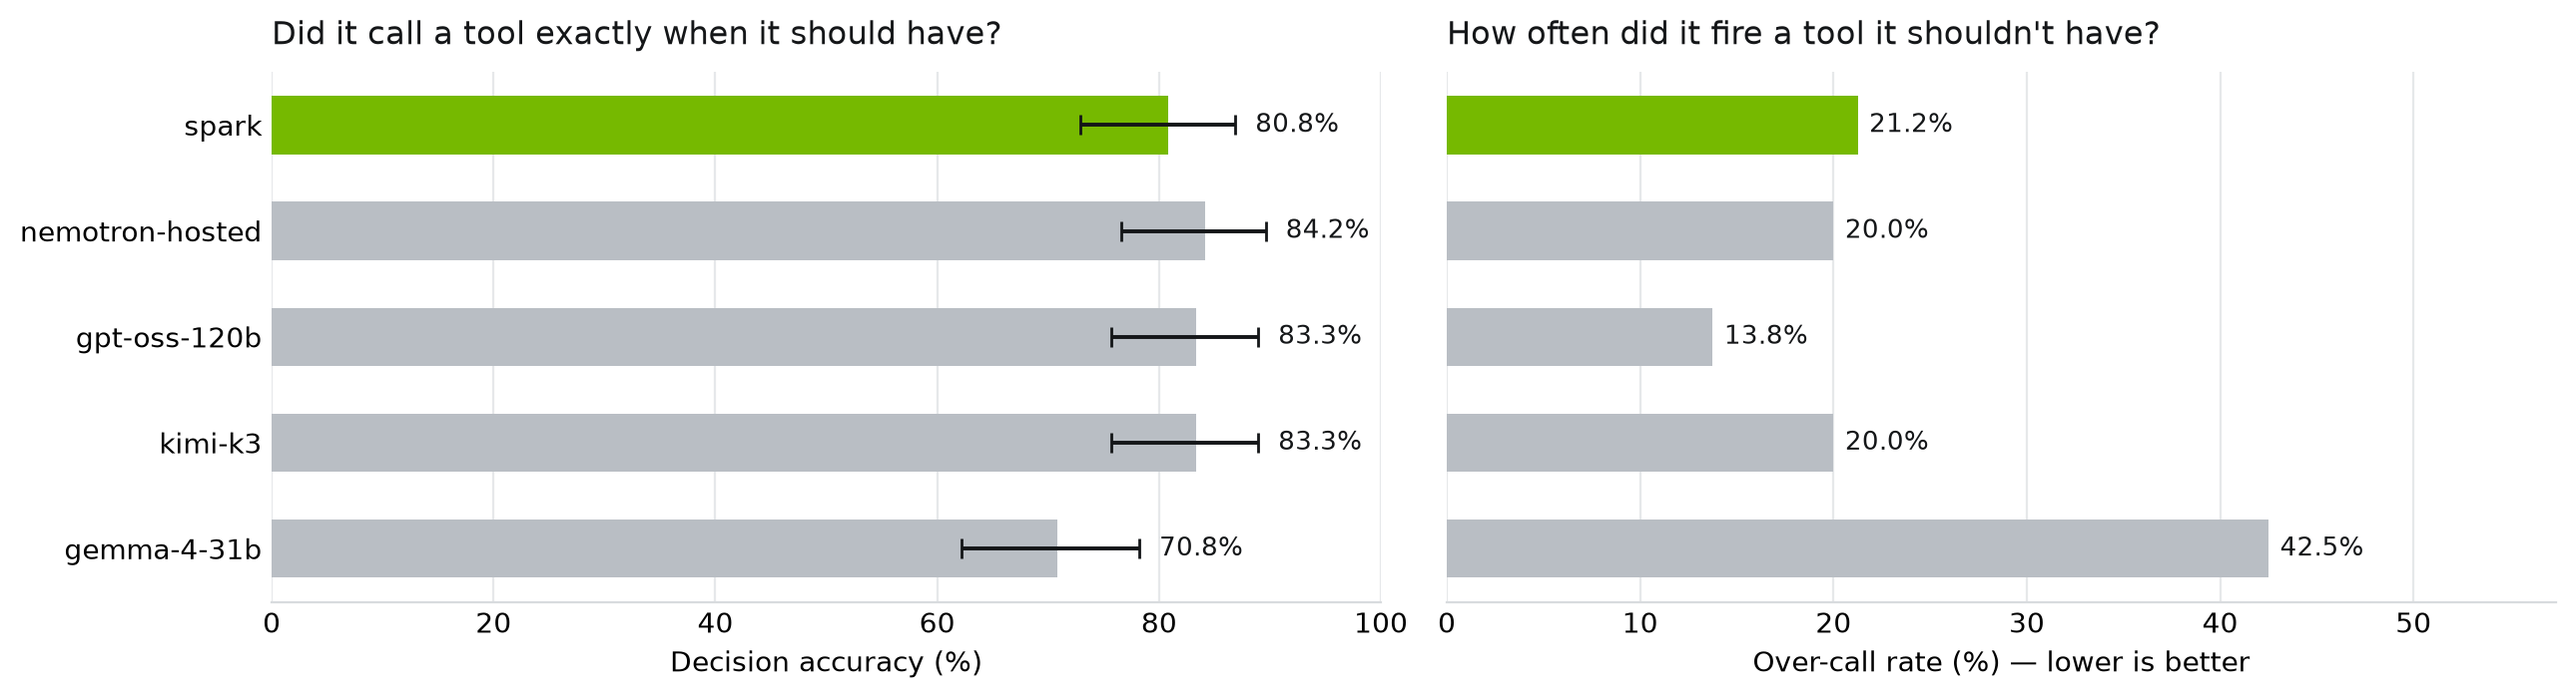
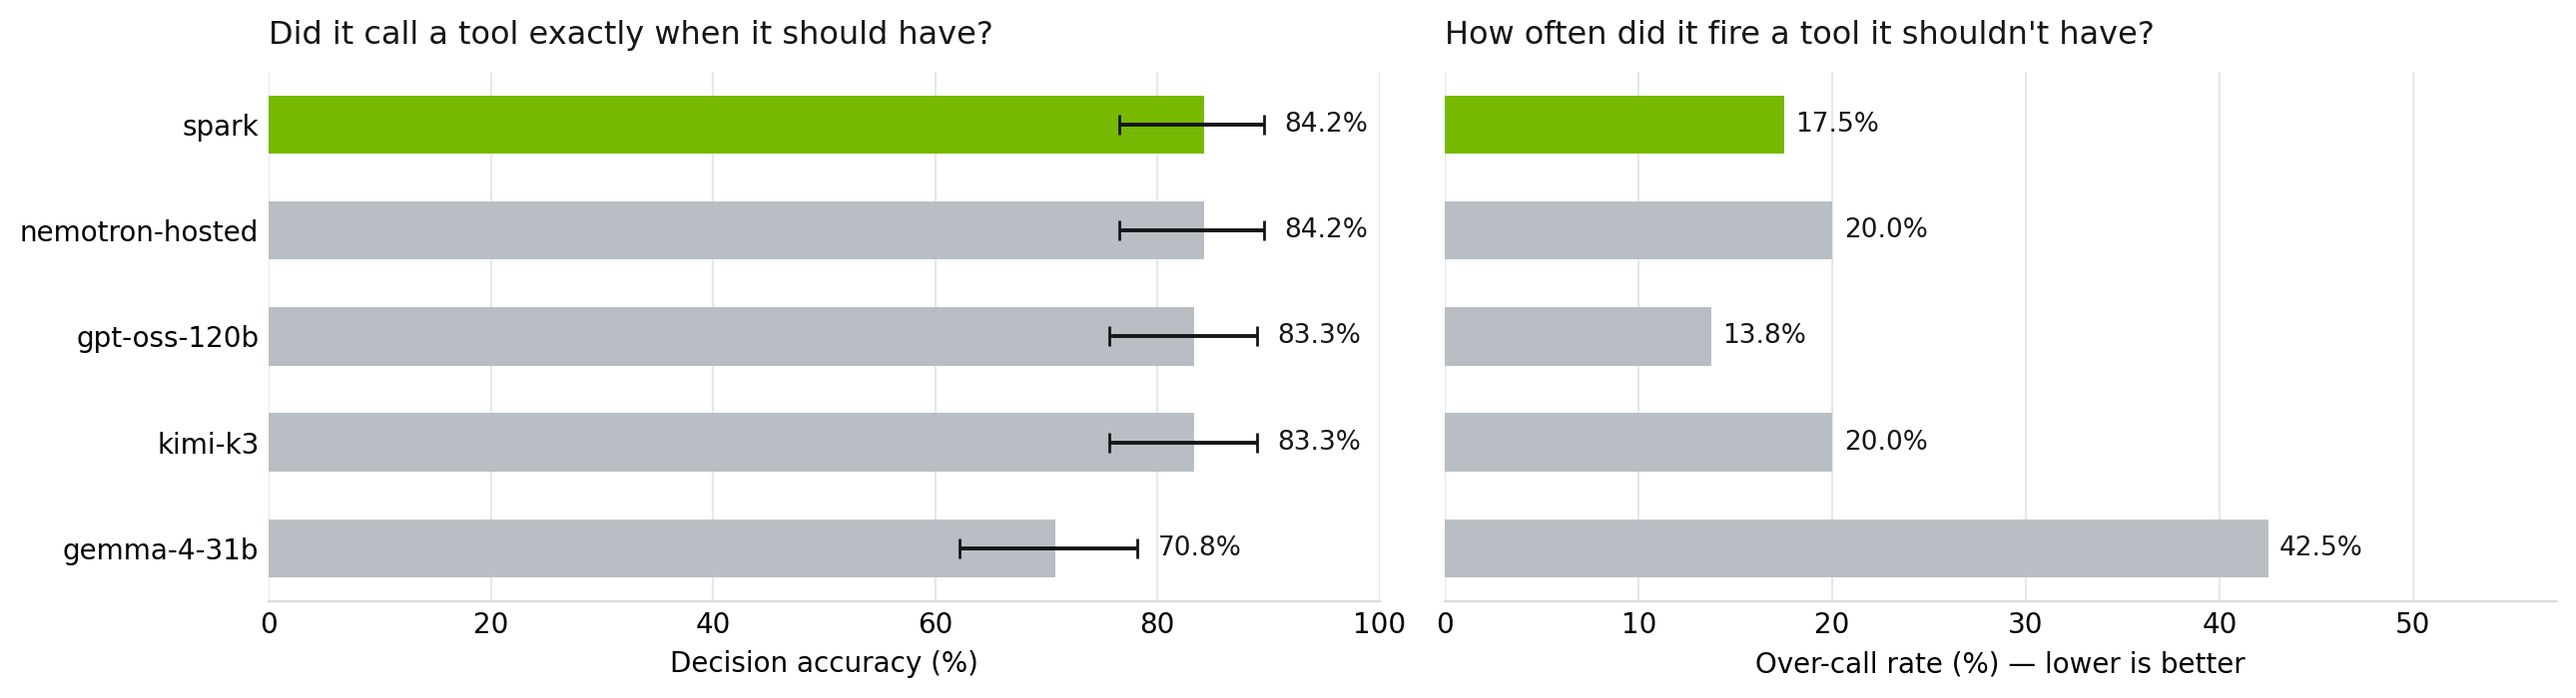
Re-run the local endpoint at the hosted token budget
The local Nemotron ran at max_tokens 3072 while the hosted control ran at
8192, and it was the only endpoint where actionable accuracy fell below
decision accuracy — three examples spent the budget on reasoning and the
tool call never arrived. Re-run at 8192: 101/120 on both metrics, matching
the hosted control exactly.

Rename the summary's top-level max_tokens to max_tokens_default, since it
is the CLI fallback and not what anything ran at; per-endpoint budgets are
recorded on each model entry. Fix the README dataset one-liner, which still
had the pre-restructure config and split.

diff --git a/dgx-spark-samples/nemotron-lightning-vllm-endpoint/run_benchmark.py b/dgx-spark-samples/nemotron-lightning-vllm-endpoint/run_benchmark.py
@@ -252,7 +252,13 @@ def sweep(config=None, n_per_label=40, only=None, concurrency=None,
         print(f"  {len(examples)} examples\n")
 
     RESULTS.mkdir(exist_ok=True)
-    result = {"n_examples": len(examples), "max_tokens": max_tokens,
+    # `max_tokens_default` is the CLI fallback, not what anything actually ran
+    # at -- endpoints.json overrides it per endpoint, and the budget each model
+    # was really given is recorded on that model's own entry. Naming this field
+    # "max_tokens" invited exactly the wrong reading: that every model shared
+    # one budget, when in practice they did not and the comparison depends on
+    # knowing which one had what.
+    result = {"n_examples": len(examples), "max_tokens_default": max_tokens,
               "seed": seed, "generated": time.strftime("%Y-%m-%d %H:%M:%S"),
               "dataset": dict(w2c.LAST_DATASET),
               "models": [], "failed": []}

diff --git a/dgx-spark-samples/nemotron-lightning-vllm-endpoint/README.md b/dgx-spark-samples/nemotron-lightning-vllm-endpoint/README.md
@@ -412,13 +412,19 @@ and **shell history** recalled with an up-arrow in front of an audience.
 ```bash
 python3 -c "
 from datasets import load_dataset
-d = load_dataset('nvidia/When2Call', 'mcq', split='test')
+d = load_dataset('nvidia/When2Call', 'test', split='mcq')
 print('OK —', len(d), 'rows, no token required')"
 ```
 
 A `401`/`403` or a *"gated dataset"* message means you need to accept the terms on the
 [dataset page](https://huggingface.co/datasets/nvidia/When2Call) while logged in, then export
 `HF_TOKEN`. Otherwise no credential is involved.
+
+A `ValueError` naming the config or the split means the layout moved again. It has moved once
+already — what used to be config `mcq` with a `test` split is now config `test` with an `mcq`
+split, which is why the line above reads back-to-front. `when2call.py` resolves both from the Hub
+at load time rather than hard-coding them, and records what it used in `results/summary.json`, so
+the benchmark keeps working when this one-liner stops.
 
 ## Environment Variables
 
